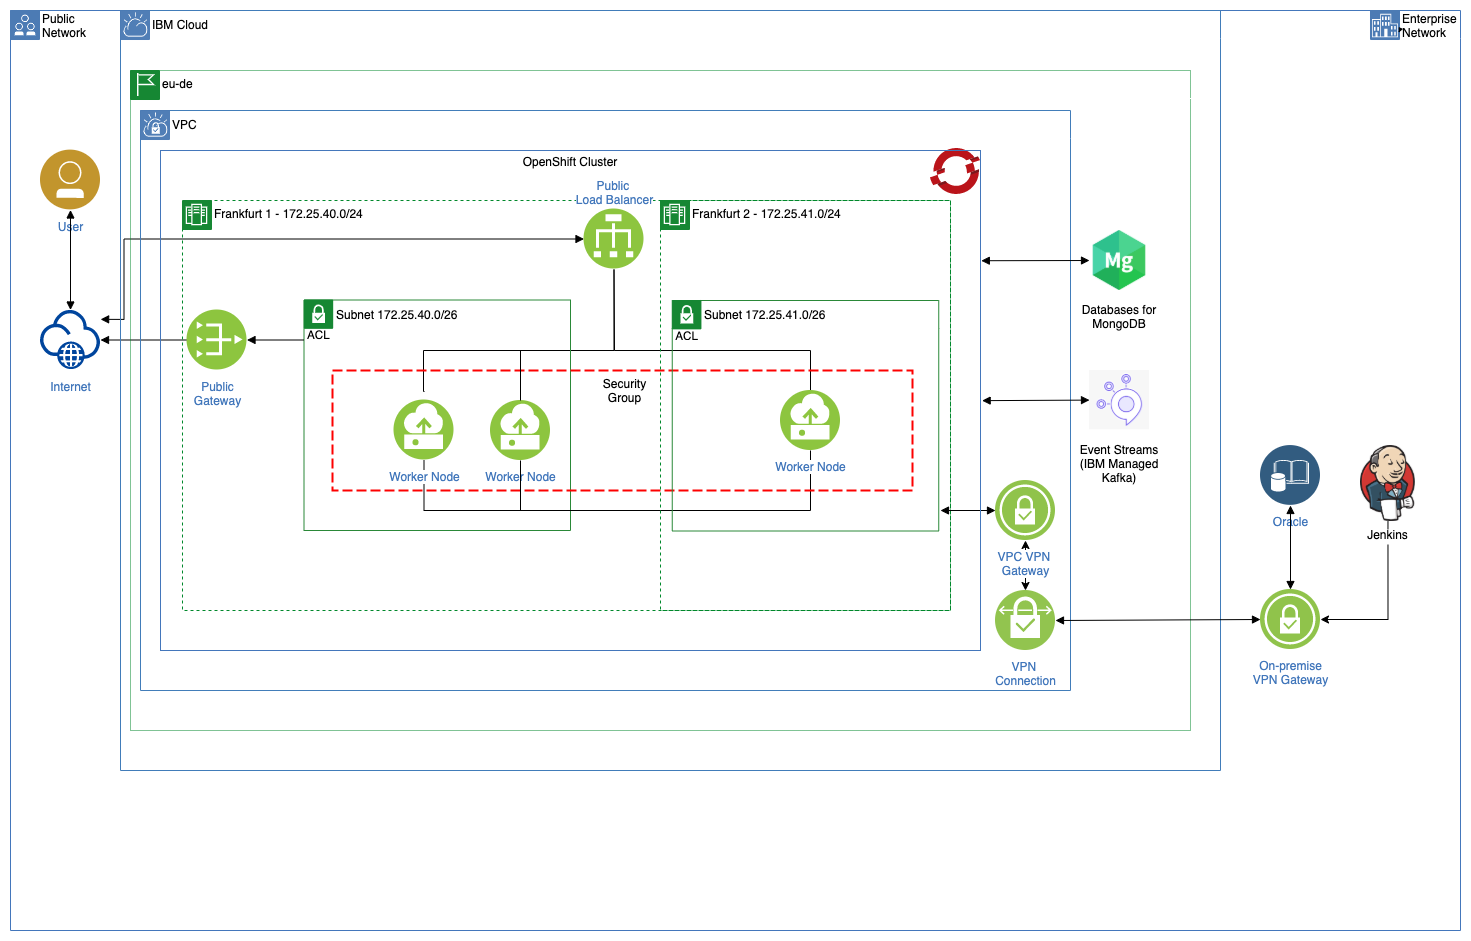
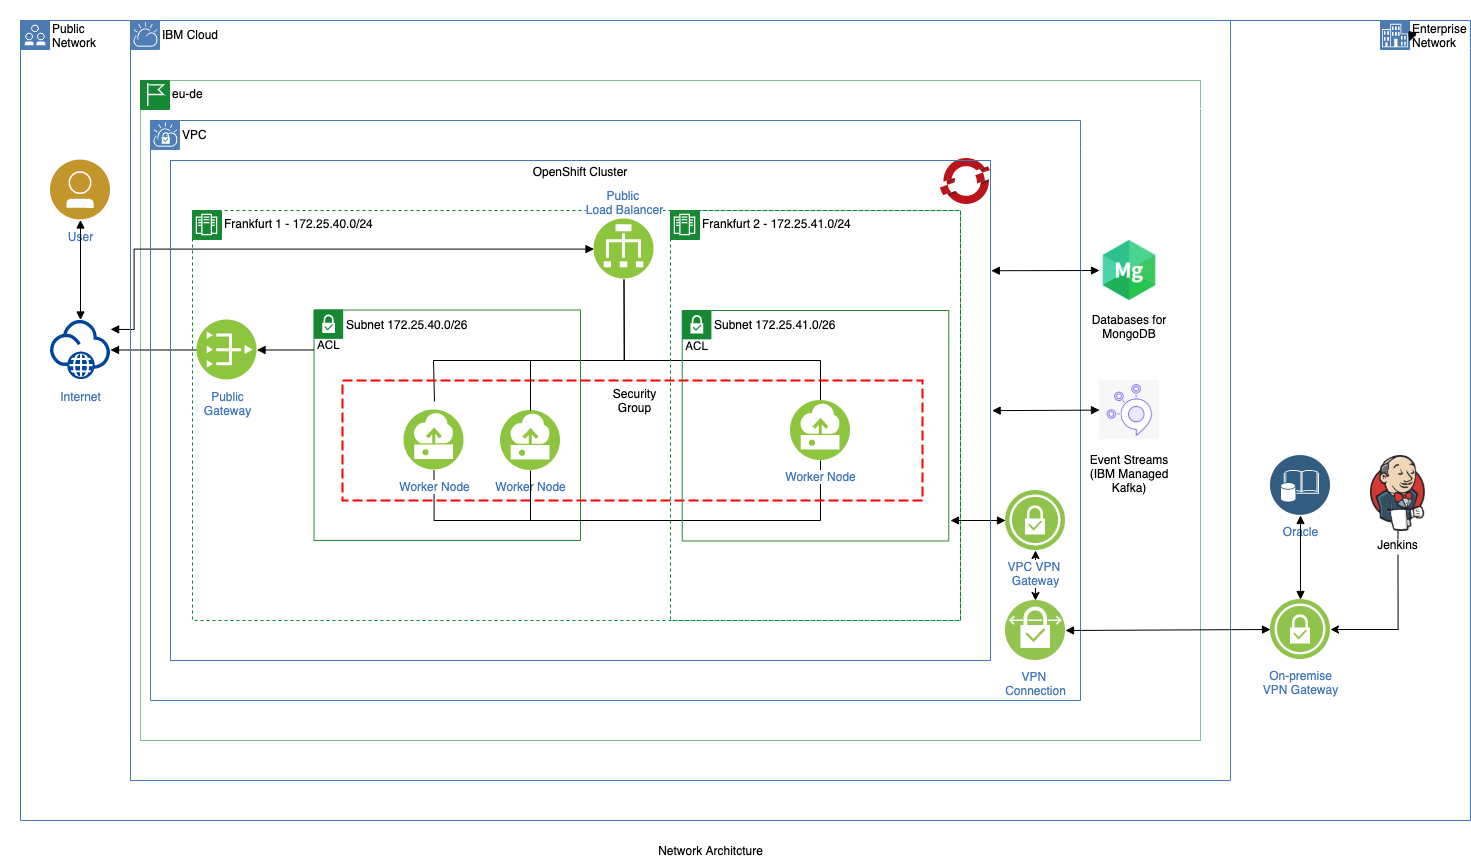
Updated cidr

diff --git a/iac-example-1/README.md b/iac-example-1/README.md
@@ -1,10 +1,10 @@
 # Infrastructure as Code example 1
 
 This directory contains the terraform code to provision IBM cloud VPC infrastructure Gen 2, Red Hat OpenShift cluster in VPC, Public Gateway, VPN
-Gateway to connect to other VPC network or on-premise network, IBM Databases for MongoDB and IBM Event Streams (Kafka).
-This code provides the flexibility to use custom CIDR for address prefix (enable_custom_address_prefix) and subnets (enable_custom_subnet). If
-custom flag is set false, it will create address prefix and subnets using 172.25.4*.
-Public Gateway (enable_public_gateway), VPN Gateway (enable_vpn), IBM Databases for MongoDB (enable_db_service) and IBM Event Streams
+Gateway to connect to other VPC network or on-premise network, IBM Databases for MongoDB (Configurable to any other IBM database service) and IBM
+Event Streams (Kafka). This code provides the flexibility to use custom CIDR for address prefix (enable_custom_address_prefix) and subnets
+(enable_custom_subnet). If custom flag is set to false, it will create address prefix and subnets using 10.0.*.0. Public Gateway
+(enable_public_gateway), VPN Gateway (enable_vpn), IBM Databases for MongoDB (enable_db_service) and IBM Event Streams
 (enable_event_streams_service) are optional and can be set as false to not to provision it.
 
 ![Network Architecture](https://github.com/gargpriyank/ibmcloud-examples/blob/master/iac-example-1/images/Network_Architecture.png)
